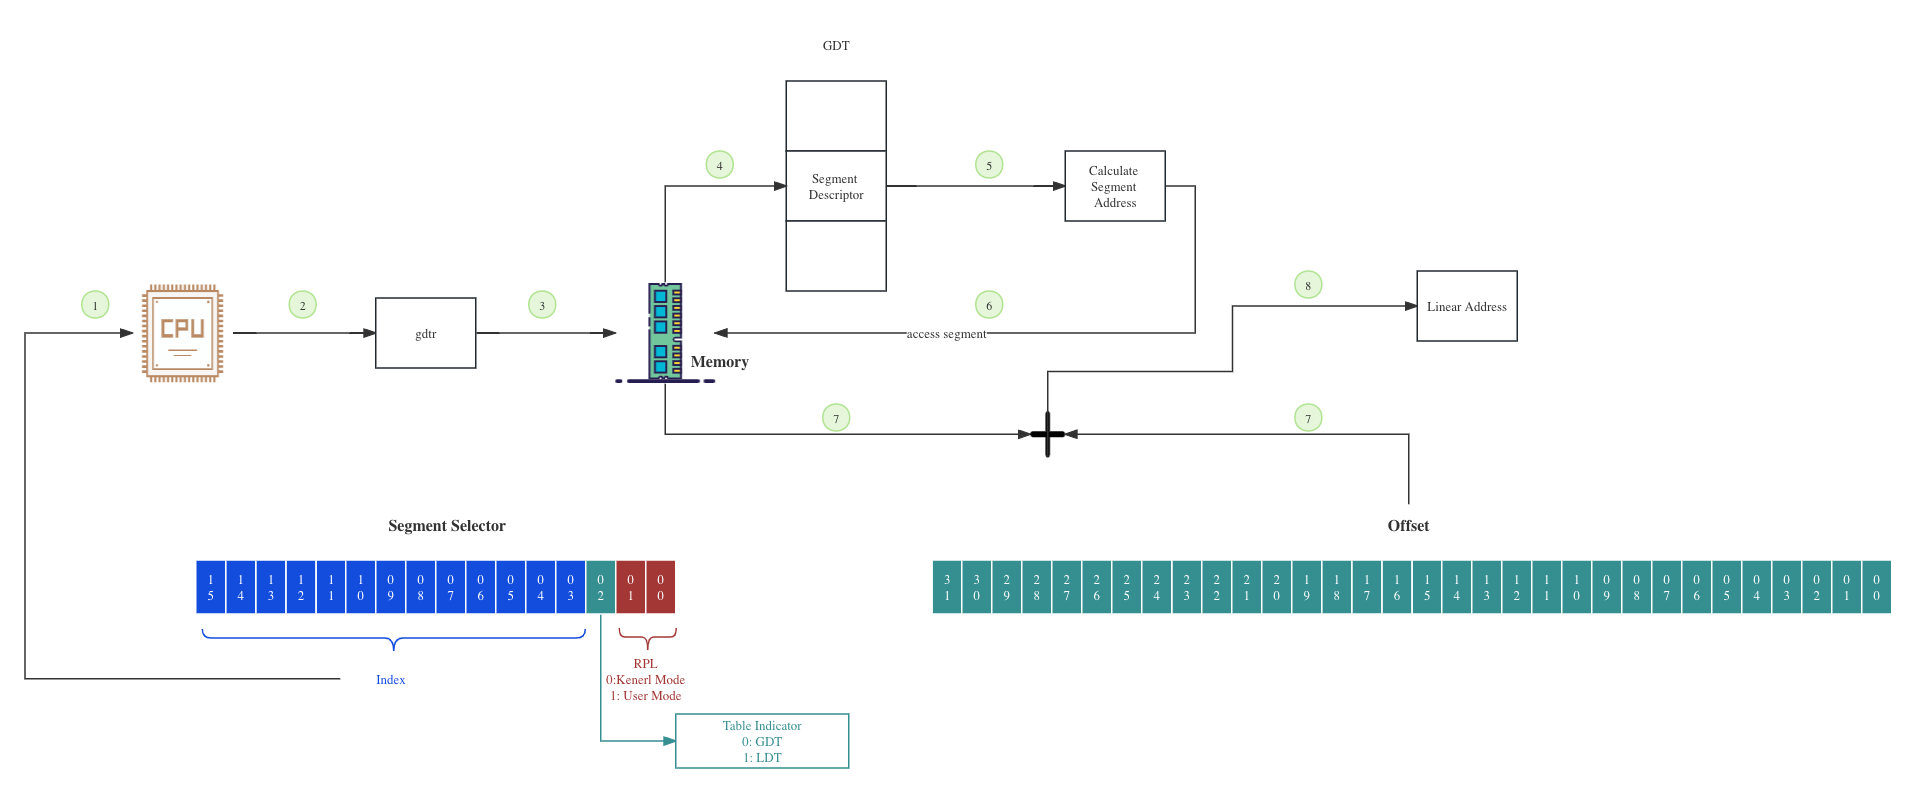
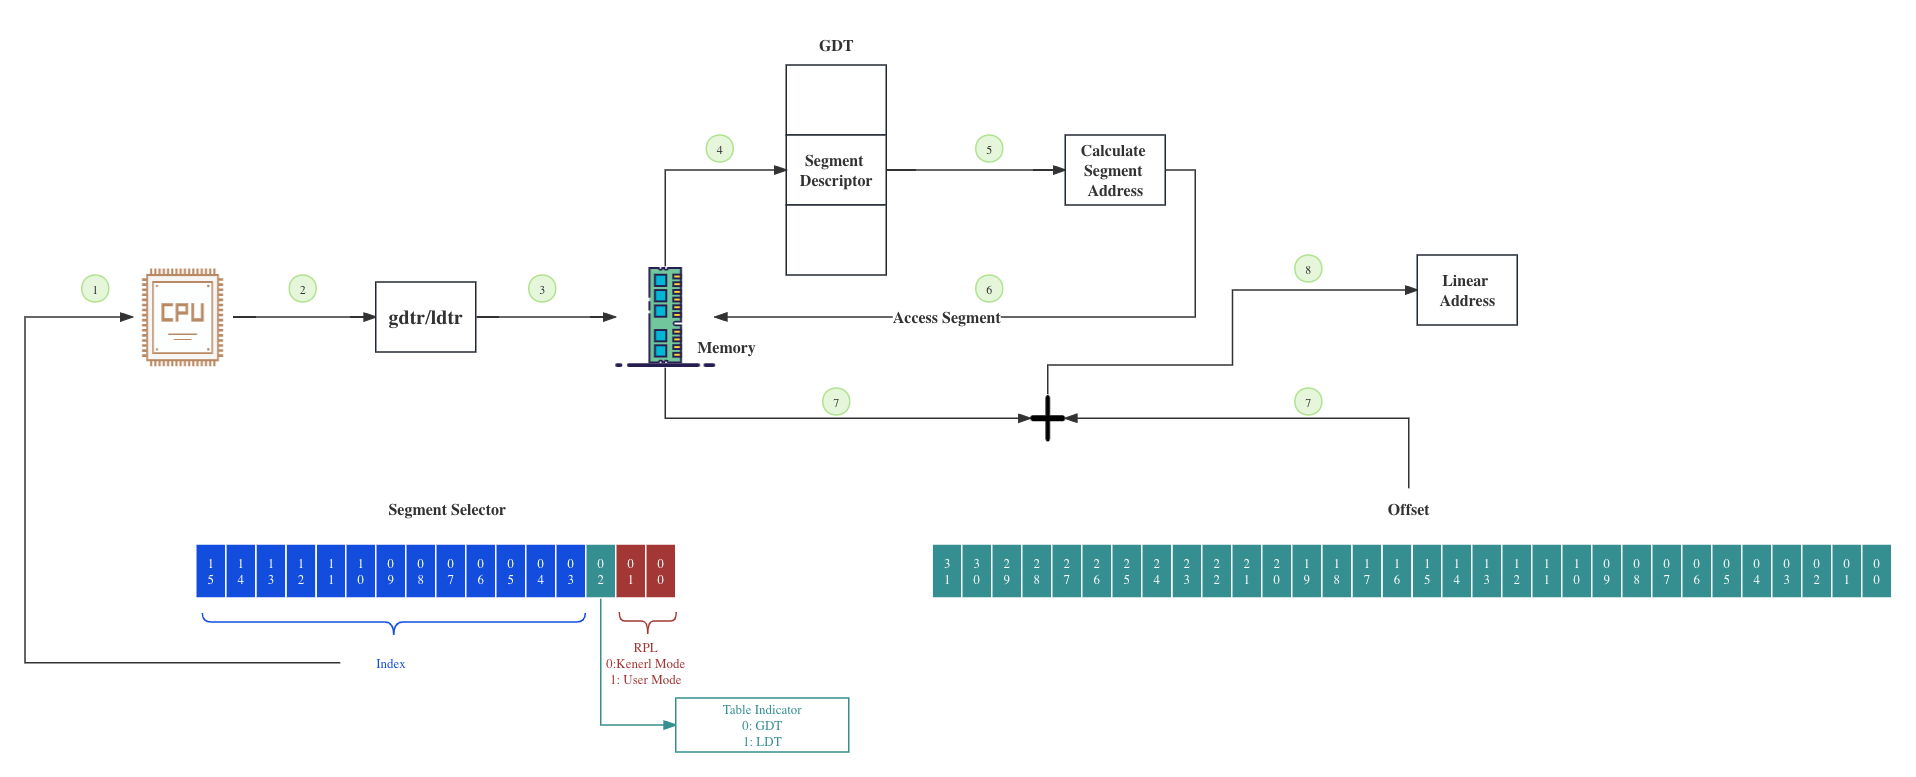
Site updated: 2023-09-18 10:05:34

diff --git a/2023/09/11/Linux-Memory-Addressing/index.html b/2023/09/11/Linux-Memory-Addressing/index.html
@@ -20,15 +20,15 @@
     var CONFIG = {"hostname":"hailingu.com","root":"/","scheme":"Muse","version":"7.8.0","exturl":false,"sidebar":{"position":"left","display":"post","padding":18,"offset":12,"onmobile":false},"copycode":{"enable":false,"show_result":false,"style":null},"back2top":{"enable":true,"sidebar":false,"scrollpercent":false},"bookmark":{"enable":false,"color":"#222","save":"auto"},"fancybox":false,"mediumzoom":false,"lazyload":false,"pangu":false,"comments":{"style":"tabs","active":null,"storage":true,"lazyload":false,"nav":null},"algolia":{"hits":{"per_page":10},"labels":{"input_placeholder":"Search for Posts","hits_empty":"We didn't find any results for the search: ${query}","hits_stats":"${hits} results found in ${time} ms"}},"localsearch":{"enable":false,"trigger":"auto","top_n_per_article":1,"unescape":false,"preload":false},"motion":{"enable":true,"async":false,"transition":{"post_block":"fadeIn","post_header":"slideDownIn","post_body":"slideDownIn","coll_header":"slideLeftIn","sidebar":"slideUpIn"}}};
   </script>
 
-  <meta name="description" content="在 Linux 中，程序经过编译后会生成 object file,这个文件是没办法直接运行的，还需要经过 link 和 load 阶段。在 load 阶段会通过系统调用创建逻辑地址空间，读取 link 后的 elf 文件加载到内存里，并设置其运行的地址空间为对应的逻辑地址空间。CPU 运行加载在内存中的程序，读取指令，生成 逻辑地址 （或者叫做虚拟地址）。 在 x86 中需要区分 3 种地址：">
+  <meta name="description" content="在 Linux 中，程序经过编译后会生成 object file,这个文件是没办法直接运行的，还需要经过 link 和 load 阶段。在 load 阶段会通过系统调用创建逻辑地址空间，读取 link 后的 elf 文件加载到内存里，并设置其运行的地址空间为对应的逻辑地址空间。CPU 运行加载在内存中的程序，读取指令，生成 逻辑地址 （或者叫做虚拟地址）。 段选择器和段寄存器 在 x86 中需要区">
 <meta property="og:type" content="article">
 <meta property="og:title" content="Linux Memory Addressing">
 <meta property="og:url" content="http://hailingu.com/2023/09/11/Linux-Memory-Addressing/index.html">
 <meta property="og:site_name" content="Blog">
-<meta property="og:description" content="在 Linux 中，程序经过编译后会生成 object file,这个文件是没办法直接运行的，还需要经过 link 和 load 阶段。在 load 阶段会通过系统调用创建逻辑地址空间，读取 link 后的 elf 文件加载到内存里，并设置其运行的地址空间为对应的逻辑地址空间。CPU 运行加载在内存中的程序，读取指令，生成 逻辑地址 （或者叫做虚拟地址）。 在 x86 中需要区分 3 种地址：">
+<meta property="og:description" content="在 Linux 中，程序经过编译后会生成 object file,这个文件是没办法直接运行的，还需要经过 link 和 load 阶段。在 load 阶段会通过系统调用创建逻辑地址空间，读取 link 后的 elf 文件加载到内存里，并设置其运行的地址空间为对应的逻辑地址空间。CPU 运行加载在内存中的程序，读取指令，生成 逻辑地址 （或者叫做虚拟地址）。 段选择器和段寄存器 在 x86 中需要区">
 <meta property="og:locale" content="en_US">
 <meta property="article:published_time" content="2023-09-11T12:19:16.000Z">
-<meta property="article:modified_time" content="2023-09-13T10:19:54.099Z">
+<meta property="article:modified_time" content="2023-09-18T02:04:05.429Z">
 <meta property="article:author" content="Hailin">
 <meta property="article:tag" content="linux">
 <meta property="article:tag" content="memory">
@@ -183,7 +183,7 @@
                   <i class="far fa-calendar-check"></i>
                 </span>
                 <span class="post-meta-item-text">Edited on</span>
-                <time title="Modified: 2023-09-13 18:19:54" itemprop="dateModified" datetime="2023-09-13T18:19:54+08:00">2023-09-13</time>
+                <time title="Modified: 2023-09-18 10:04:05" itemprop="dateModified" datetime="2023-09-18T10:04:05+08:00">2023-09-18</time>
               </span>
 
           
@@ -203,6 +203,7 @@ file,这个文件是没办法直接运行的，还需要经过 link 和 load 阶
 文件加载到内存里，并设置其运行的地址空间为对应的<strong>逻辑地址空间</strong>。CPU
 运行加载在内存中的程序，读取指令，生成 <strong>逻辑地址</strong>
 （或者叫做虚拟地址）。</p>
+<h2 id="段选择器和段寄存器">段选择器和段寄存器</h2>
 <p>在 x86 中需要区分 3 种地址：</p>
 <ul>
 <li>逻辑地址：一个逻辑地址的内容表示一个操作数或者指令，逻辑地址本身由<strong>段选择符</strong>和<strong>段内偏移量</strong>组成。比如下图的指令
@@ -221,7 +222,6 @@ Unit</strong> 处理得到 <strong>物理地址</strong> 。CPU 拿到
 <strong>物理地址</strong>
 后，往内存地址总线上发送内存访问单元的物理地址信号，并由内存仲裁器决定，CPU
 是否能立刻访问对应的内存地址。</p>
-<h2 id="段选择器和段寄存器">段选择器和段寄存器</h2>
 <p>一个逻辑地址由段标识符和偏移量组成</p>
 <ol type="1">
 <li>段标识符：长度为 16bit，又被称为段选择器</li>
@@ -230,7 +230,7 @@ Unit</strong> 处理得到 <strong>物理地址</strong> 。CPU 拿到
 <p>段选择器，如下图所示：</p>
 <p><img
 src="https://github.com/hailingu/hailingu.github.io/blob/master/images/lma-4.png?raw=true" /></p>
-<p>index 的部分长度为 13 bit，表示系统最可支持的最大分段数为 8192 个</p>
+<p>Index 的部分长度为 13 bit，表示系统最可支持的最大分段数为 8192 个</p>
 <p>CPU 通过提供段寄存器存储段选择器，实现了段选择器的快速存取。CPU
 一共提供了 cs、ss、ds、es、fs、gs 共 6 个段寄存器，其中 es fs gs
 为通用寄存器。</p>
@@ -248,12 +248,9 @@ GDT 之外的额外的段，那么程序可以将这些段存储在 LDT 中。GD
 <p>例如，gdtr 里存储的地址为 0x00001000，即 GDT 在内存里的地址是
 0x00001000。同时，段选择符的 index 部分的值为 0x3e8（10 进制结果为
 1000），那么段描述符在内存里的地址即为</p>
-<p><span class="math display">\[
-\begin{aligned}
-0x000003e8 \times 0x00000008 = 0x00001f40 \newline
-0x00001000 + 0x00001f40 = 0x00002f40
-\end{aligned}
-\]</span></p>
+<p>0x000003e8 <span class="math inline">\(\times\)</span> 0x00000008 =
+0x00001f40 0x00001000 <span class="math inline">\(+\)</span> 0x00001f40
+= 0x00002f40</p>
 <p>到目前为止，当拿到一个逻辑地址的时候，会通过下图所示的过程得到线性地址</p>
 <p><img
 src="https://github.com/hailingu/hailingu.github.io/blob/master/images/lma-5.png?raw=true" /></p>
@@ -264,16 +261,18 @@ src="https://github.com/hailingu/hailingu.github.io/blob/master/images/lma-3.png
 <p>在段选择器中有一个 RPL，在段描述符中有一个 DPL，还有一个
 CPL。一般情况下 CPL = RPL，处理器在访问内存的时候，会比较 CPL 和
 DPL，看权限是否符合要求，如果不符合要求就禁止访问，具体的规则在这里先忽略。</p>
-<p>在 Linux
-中广泛使用到数据段描述符（DSD）和代码段描述符（CSD），这两个可以存储在
-GDT 或者 LDT 中。而任务状态段描述符（TSSD）只能存在于 GDT
+<p>在 Linux 中广泛使用到数据段描述符（Data Segment
+Descriptor）和代码段描述符（Code Segment Descriptor），这两个可以存储在
+GDT 或者 LDT 中。而任务状态段描述符（Task Status Segment
+Descriptor）只能存在于 GDT
 中，这个段用来保存处理器寄存器的内容。LDTD（LDT 描述符）也只能存储在 GDT
 中。</p>
 <p>为了加速段描述符的读取，CPU 提供了 6
 个不可编程的寄存器，用于存储段选择器对应的 8 Byte
-段描述符。在每次段选择器加载到前述提到的段寄存器的时候，对应的段描述符也会加载到对应的不可编程寄存器中，这样获得线性地址流程被大大简化了，如下所示。</p>
+段描述符。在每次段选择寄存器加载相应的段选择器的时候，段选择器所对应的段描述符也会加载到相应的不可编程寄存器中，这样获得线性地址流程被大大简化了，如下所示。</p>
 <p><img
 src="https://github.com/hailingu/hailingu.github.io/blob/master/images/lma-6.png?raw=true" /></p>
+<h2 id="linux-中的段">Linux 中的段</h2>
 
     </div>
 
@@ -356,7 +355,7 @@ src="https://github.com/hailingu/hailingu.github.io/blob/master/images/lma-6.png
 
       <!--noindex-->
       <div class="post-toc-wrap sidebar-panel">
-          <div class="post-toc motion-element"><ol class="nav"><li class="nav-item nav-level-2"><a class="nav-link" href="#%E6%AE%B5%E9%80%89%E6%8B%A9%E5%99%A8%E5%92%8C%E6%AE%B5%E5%AF%84%E5%AD%98%E5%99%A8"><span class="nav-number">1.</span> <span class="nav-text">段选择器和段寄存器</span></a></li></ol></div>
+          <div class="post-toc motion-element"><ol class="nav"><li class="nav-item nav-level-2"><a class="nav-link" href="#%E6%AE%B5%E9%80%89%E6%8B%A9%E5%99%A8%E5%92%8C%E6%AE%B5%E5%AF%84%E5%AD%98%E5%99%A8"><span class="nav-number">1.</span> <span class="nav-text">段选择器和段寄存器</span></a></li><li class="nav-item nav-level-2"><a class="nav-link" href="#linux-%E4%B8%AD%E7%9A%84%E6%AE%B5"><span class="nav-number">2.</span> <span class="nav-text">Linux 中的段</span></a></li></ol></div>
       </div>
       <!--/noindex-->
 

diff --git a/index.html b/index.html
@@ -176,7 +176,7 @@
                   <i class="far fa-calendar-check"></i>
                 </span>
                 <span class="post-meta-item-text">Edited on</span>
-                <time title="Modified: 2023-09-13 18:19:54" itemprop="dateModified" datetime="2023-09-13T18:19:54+08:00">2023-09-13</time>
+                <time title="Modified: 2023-09-18 10:04:05" itemprop="dateModified" datetime="2023-09-18T10:04:05+08:00">2023-09-18</time>
               </span>
 
           
@@ -196,6 +196,7 @@ file,这个文件是没办法直接运行的，还需要经过 link 和 load 阶
 文件加载到内存里，并设置其运行的地址空间为对应的<strong>逻辑地址空间</strong>。CPU
 运行加载在内存中的程序，读取指令，生成 <strong>逻辑地址</strong>
 （或者叫做虚拟地址）。</p>
+<h2 id="段选择器和段寄存器">段选择器和段寄存器</h2>
 <p>在 x86 中需要区分 3 种地址：</p>
 <ul>
 <li>逻辑地址：一个逻辑地址的内容表示一个操作数或者指令，逻辑地址本身由<strong>段选择符</strong>和<strong>段内偏移量</strong>组成。比如下图的指令
